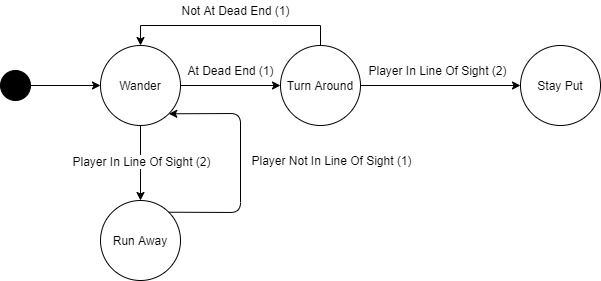
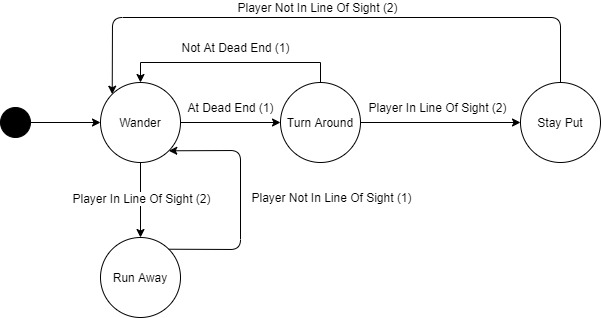
updated state machine for stuck in dead end and fixed run away behaviour for characters in both navmesh and pathfinding graph mode

diff --git a/COMP-476-A2-TAG/Assets/Scripts/Character.cs b/COMP-476-A2-TAG/Assets/Scripts/Character.cs
@@ -248,6 +248,8 @@ public class Character : NPC
         turnAround.AddTransition("Not at dead end", NotAtDeadEnd, 1, wander);
         turnAround.AddTransition("Player in line of sight", PlayerInLineOfSight, 2, stayPut);
 
+        stayPut.AddTransition("Player not in line of sight", PlayerNotInLineOfSight, 1, wander);
+
         finiteStateMachine = new FiniteStateMachine(wander);
     }
 
@@ -299,6 +301,7 @@ public class Character : NPC
         if (Manager.NavMesh)
         {
             this.gameObject.GetComponent<NavMeshAgent>().SetDestination(Manager.LastSpotter.current_node.Value.transform.position);
+            currentTarget = Manager.LastSpotter.current_node;
         }
 
         else
@@ -333,7 +336,10 @@ public class Character : NPC
     {
         if(Manager.NavMesh)
         {
-            this.gameObject.GetComponent<NavMeshAgent>().SetDestination(graph.RandomNode().Value.transform.position);
+            GraphNode<LevelNode> rand = graph.RandomNode();
+            this.gameObject.GetComponent<NavMeshAgent>().SetDestination(rand.Value.transform.position);
+            currentTarget = rand;
+            
         }
 
         else
@@ -370,6 +376,7 @@ public class Character : NPC
         if (Manager.NavMesh)
         {
             this.gameObject.GetComponent<NavMeshAgent>().SetDestination(Manager.ItPlayer.current_node.RandomNeighbor().Value.transform.position);
+            currentTarget = Manager.ItPlayer.current_node;
         }
 
         else
@@ -404,6 +411,7 @@ public class Character : NPC
     private void TaggingUpdate()
     {
         Movement.Target = Manager.ItPlayer.current_node.Value.transform.position;
+        currentTarget = Manager.ItPlayer.current_node;
     }
 
     private void RunAwayUpdate()
@@ -411,19 +419,38 @@ public class Character : NPC
         if (Manager.NavMesh)
         {
             this.gameObject.GetComponent<NavMeshAgent>().SetDestination(FurthestNeighborFromCharacter(last_player_seen).Value.transform.position);
+            currentTarget = FurthestNeighborFromCharacter(last_player_seen);
         }
 
         else
         {
-
-            current_path_node_index = 0;
-            path = graph.ShortestPath(current_node, FurthestNeighborFromCharacter(last_player_seen)).ToArray();
-
-            if (!path.Contains(currentTarget))
+            /*
+            try
             {
-                Movement.Target = current_node.Value.transform.position;
-                currentTarget = current_node;
+                if (Movement.HasArrived)
+                {
+                    current_node = path[current_path_node_index];
+                    Movement.Target = path[++current_path_node_index].Value.transform.position;
+                    currentTarget = path[current_path_node_index];
+                }
             }
+            */
+
+            /*
+            catch
+            {
+            */
+                current_path_node_index = 0;
+                path = graph.ShortestPath(current_node, FurthestNeighborFromCharacter(last_player_seen)).ToArray();
+
+                if (!path.Contains(currentTarget))
+                {
+                    Movement.Target = current_node.Value.transform.position;
+                    currentTarget = current_node;
+                }
+            /*
+            }
+            */
 
             base.Update();
         }
@@ -434,6 +461,7 @@ public class Character : NPC
         if (Manager.NavMesh)
         {
             this.gameObject.GetComponent<NavMeshAgent>().SetDestination(current_node.Neighbors[0].Value.transform.position);
+            currentTarget = current_node.Neighbors[0];
         }
 
         else
